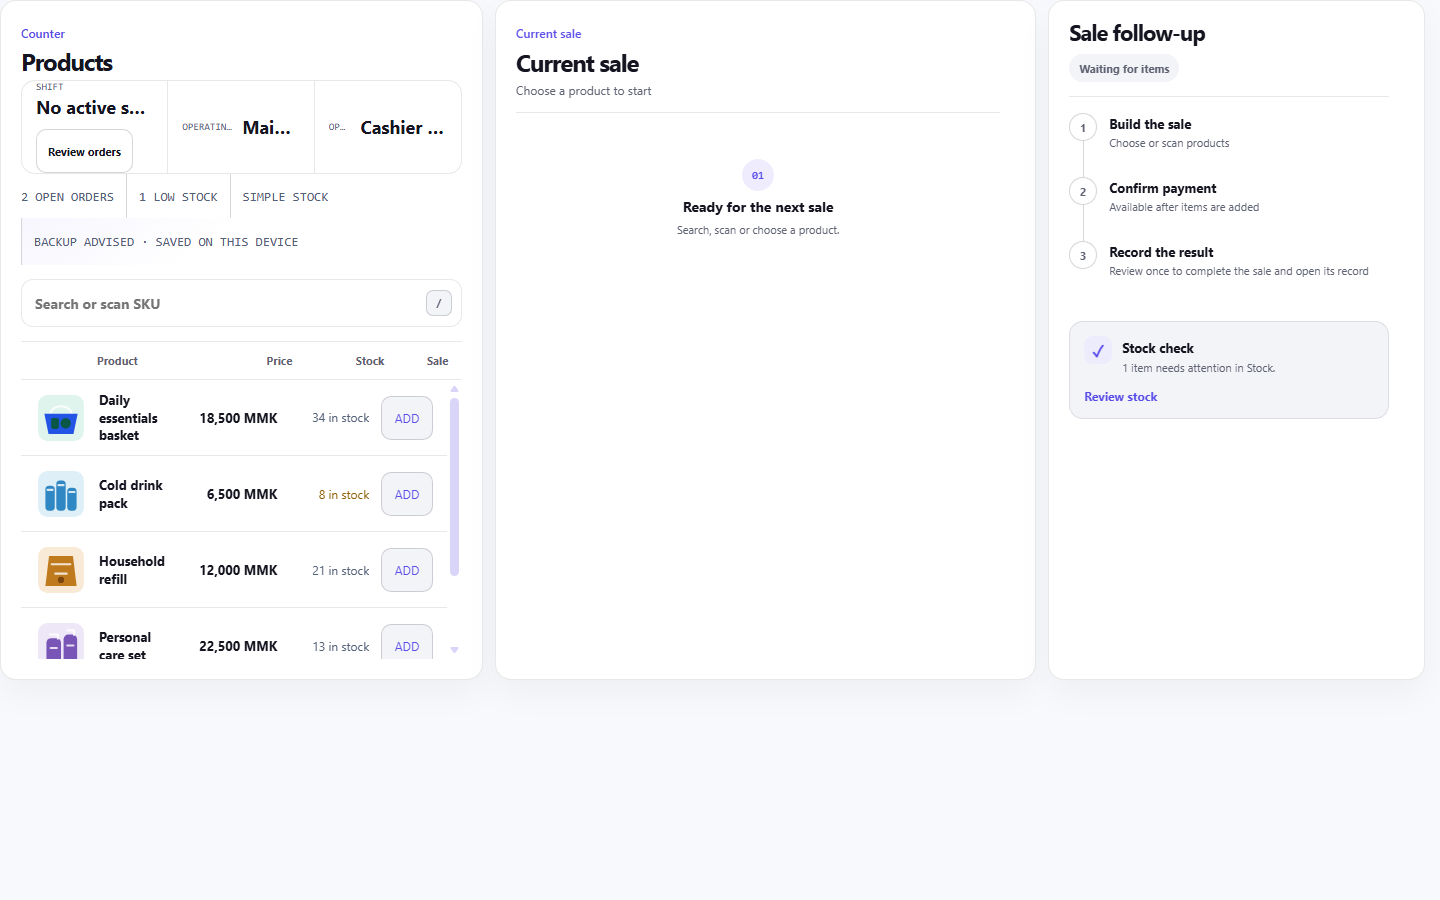
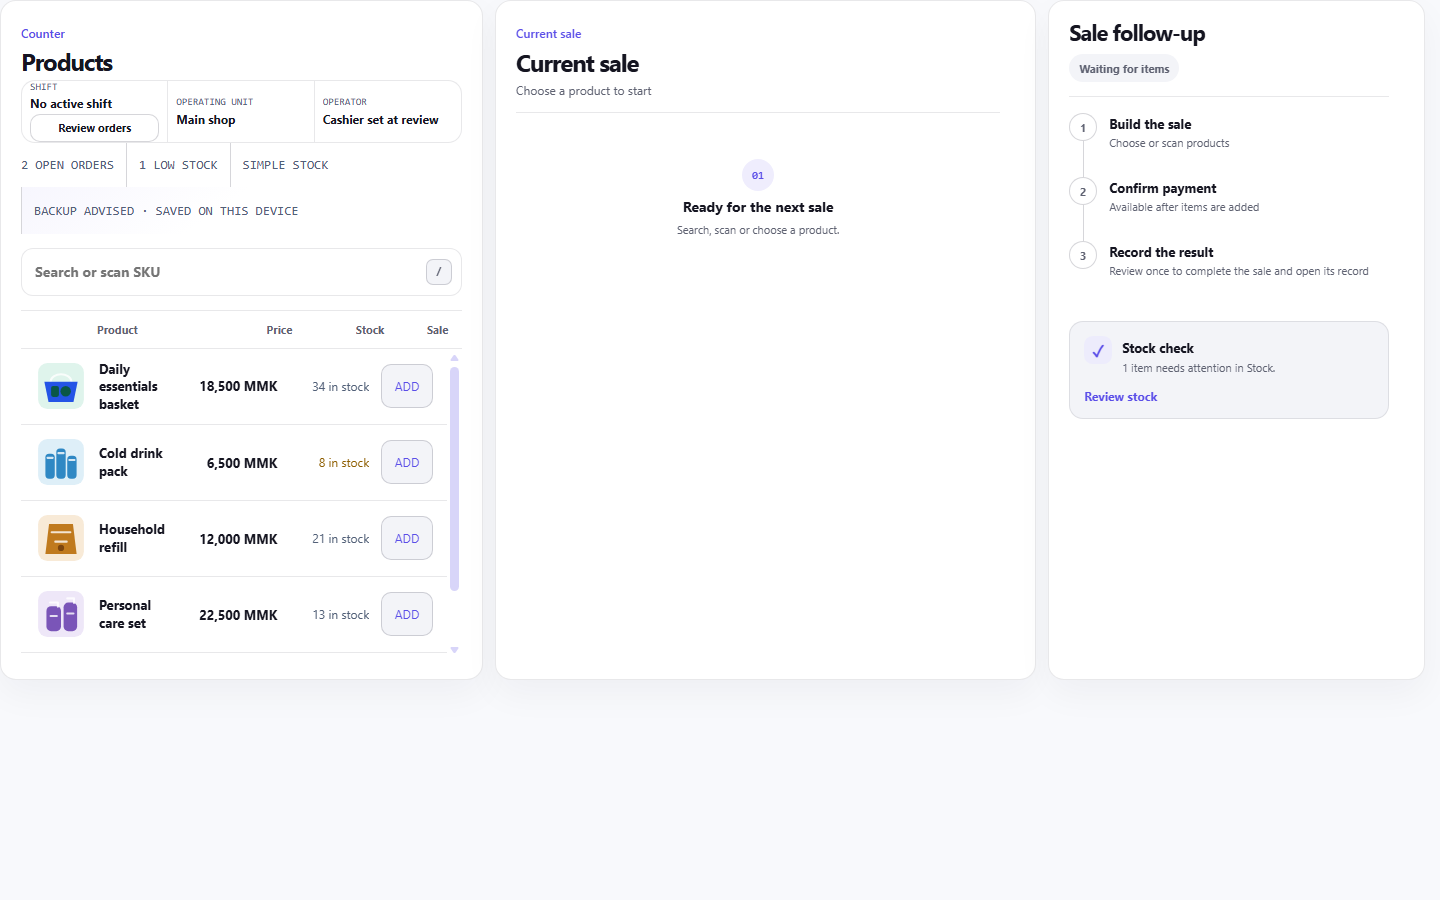
Keep Shop Counter context readable

diff --git a/showroom/src/core/core-app.css b/showroom/src/core/core-app.css
@@ -2224,6 +2224,11 @@ label.checkbox-row input { width: 1.25rem; min-width: 1.25rem; min-height: 1.25r
 .shop-operating-strip { grid-template-columns: minmax(0,1.5fr) repeat(2,1fr); }
 .shop-operating-status { flex-wrap: wrap; }
 .shop-operating-status > span { display: grid; gap: .125rem; }
+.shop-catalog-panel .shop-operating-strip { grid-template-columns: repeat(3,minmax(0,1fr)); }
+.shop-catalog-panel .shop-operating-strip > span { display: grid; align-content: center; justify-content: stretch; gap: .1875rem; padding-inline: .5rem; }
+.shop-catalog-panel .shop-operating-strip small { line-height: 1.25; white-space: normal; overflow-wrap: anywhere; }
+.shop-catalog-panel .shop-operating-strip strong { min-width: 0; font-size: .75rem; line-height: 1.25; text-overflow: clip; white-space: normal; overflow-wrap: anywhere; }
+.shop-catalog-panel .shop-operating-strip .core-button { min-height: 1.75rem; padding: .25rem .375rem; white-space: normal; }
 .shop-shift-choices { width: 100%; flex: 1 1 100%; grid-template-columns: repeat(auto-fit,minmax(8rem,1fr)); }
 .shop-payment-options .shop-shift-choice { text-align: left; }
 .shop-today { display: grid; gap: 1rem; }
